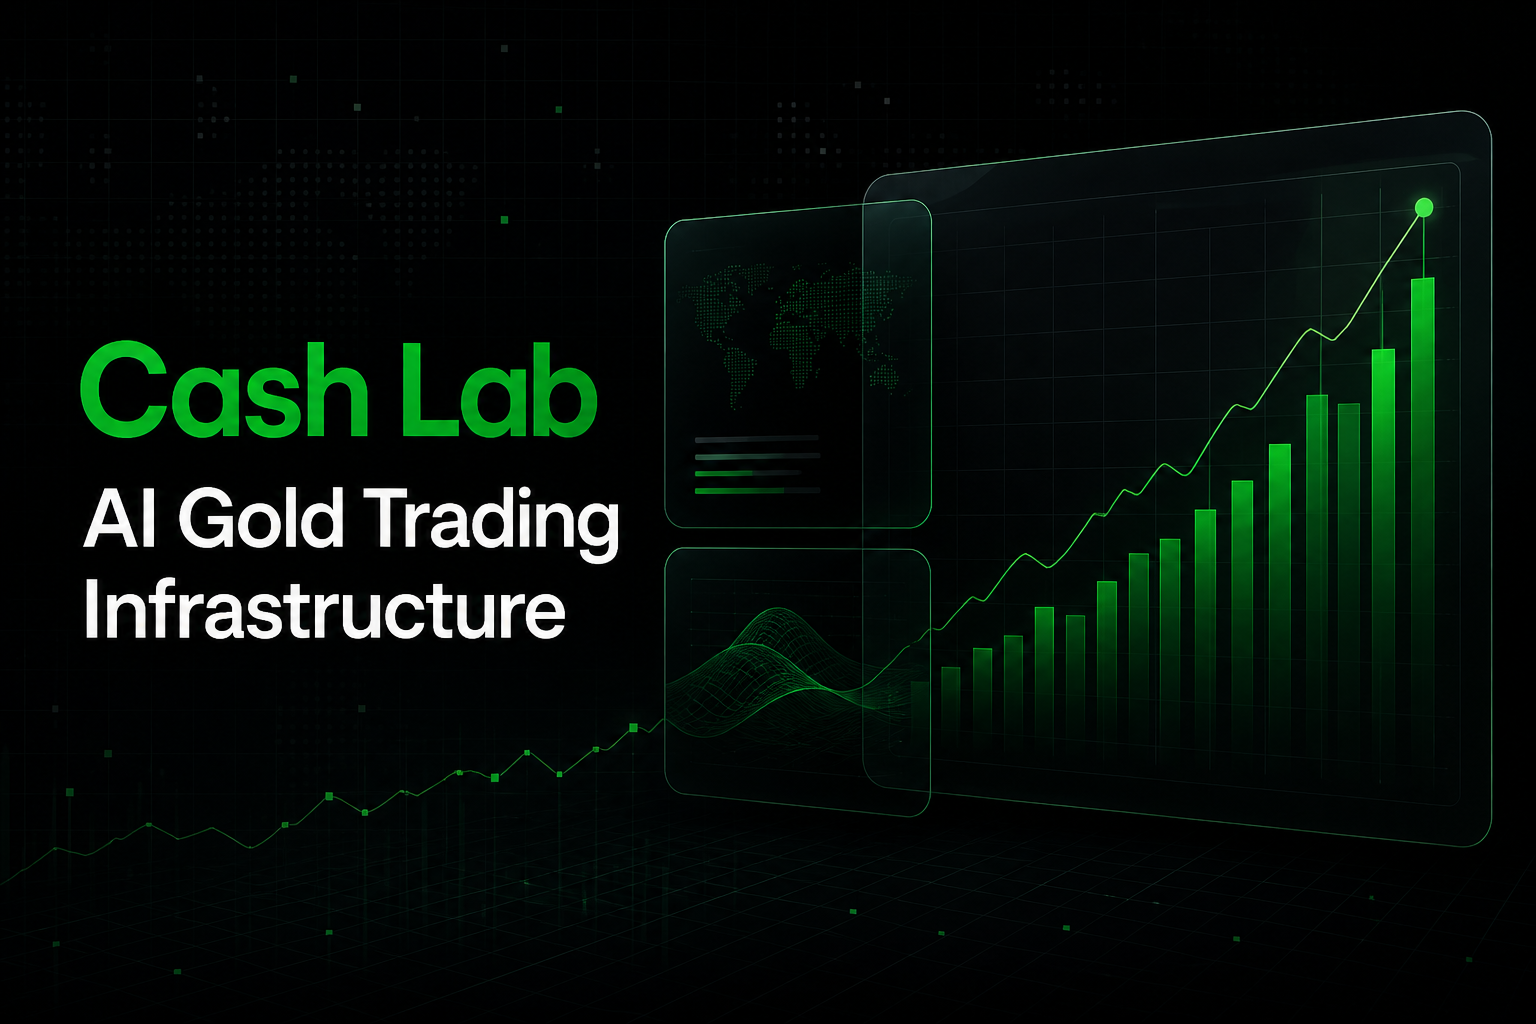
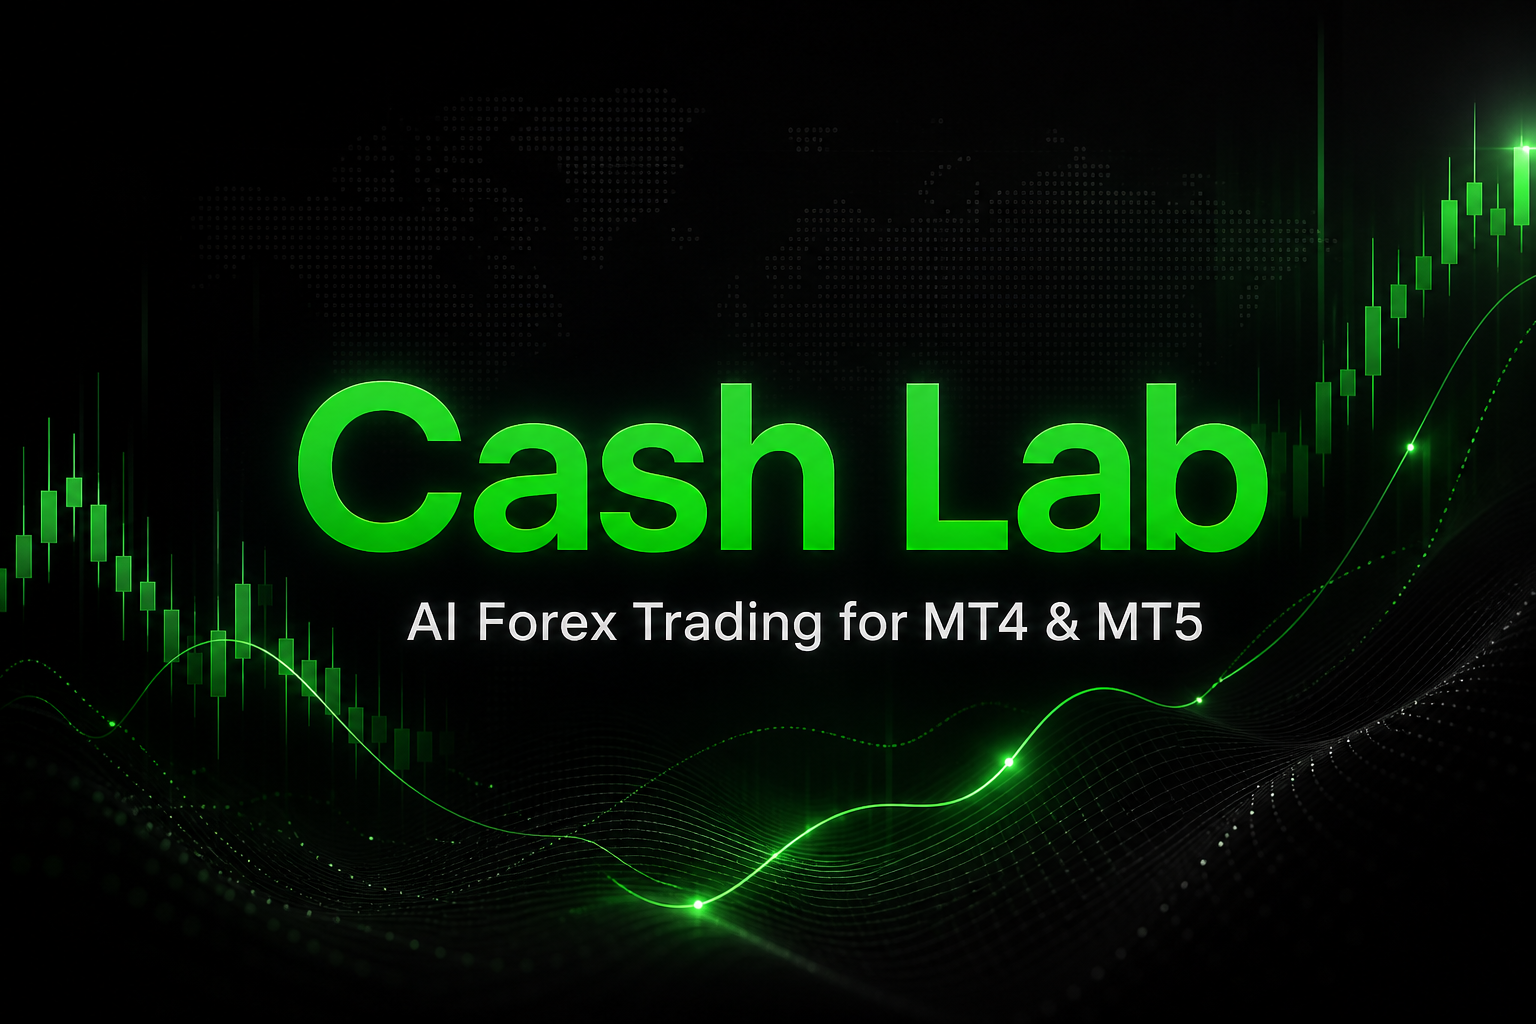
Update Cash Lab to forex and 70/30 split

diff --git a/components/LandingPage.tsx b/components/LandingPage.tsx
@@ -50,13 +50,13 @@ export function LandingPage() {
         <div className="hero-glow" aria-hidden="true" />
         <div className="container hero-inner">
           <div className="eyebrow">
-            <span /> AI-Powered Gold Trading Infrastructure
+            <span /> AI-Powered Forex Trading Infrastructure
           </div>
           <h1>
-            AI Gold Scalping Trading Platform for <em>MT4 and MT5</em>
+            AI Forex Trading Platform for <em>MT4 and MT5</em>
           </h1>
           <p className="hero-copy">
-            Deploy AI-powered gold trading in minutes. The system analyzes
+            Deploy AI-powered forex trading in minutes. The system analyzes
             real-time market conditions and executes trades on MT4 and MT5 with
             built-in risk protection.
           </p>
@@ -84,7 +84,7 @@ export function LandingPage() {
             </div>
             <div className="market-card market-card-main">
               <div className="market-card-top">
-                <span>Cash Lab AI Gold Scalping Bot</span>
+                <span>Cash Lab AI Forex Trading Bot</span>
                 <span className="live-dot">● INTERFACE PREVIEW</span>
               </div>
               <div className="market-stats">
@@ -261,14 +261,14 @@ export function LandingPage() {
               <div>
                 <strong>How is realized profit shared?</strong>
                 <p>
-                  Customers retain 60% of commissionable realized profit, while
-                  Cash Lab receives 40% as its performance commission.
+                  Customers retain 70% of commissionable realized profit, while
+                  Cash Lab receives 30% as its performance commission.
                 </p>
               </div>
             </div>
             <div className="agent-split">
-              <span>Customer share · 60%</span>
-              <span>Cash Lab share · 40%</span>
+              <span>Customer share · 70%</span>
+              <span>Cash Lab share · 30%</span>
             </div>
             <div className="agent-input">
               Ask Trading Agent anything… <b>↗</b>
@@ -360,23 +360,23 @@ export function LandingPage() {
             eyebrow="Commission model"
             title={
               <>
-                A Transparent <span>60/40 Profit Split</span>
+                A Transparent <span>70/30 Profit Split</span>
               </>
             }
-            copy="Customers keep 60% of commissionable realized profit. Cash Lab receives 40% as its performance commission."
+            copy="Customers keep 70% of commissionable realized profit. Cash Lab receives 30% as its performance commission."
           />
           <div className="commission-panel">
             <div
               className="commission-bar"
               role="img"
-              aria-label="Profit split: 60 percent customer and 40 percent Cash Lab"
+              aria-label="Profit split: 70 percent customer and 30 percent Cash Lab"
             >
               <div className="customer-share">
-                <strong>60%</strong>
+                <strong>70%</strong>
                 <span>Customer</span>
               </div>
               <div className="cashlab-share">
-                <strong>40%</strong>
+                <strong>30%</strong>
                 <span>Cash Lab</span>
               </div>
             </div>
@@ -386,7 +386,7 @@ export function LandingPage() {
                   <Users size={22} />
                 </div>
                 <div>
-                  <h3>60% Customer Share</h3>
+                  <h3>70% Customer Share</h3>
                   <p>
                     The customer receives the majority share of commissionable
                     realized trading profit.
@@ -398,9 +398,9 @@ export function LandingPage() {
                   <BriefcaseBusiness size={22} />
                 </div>
                 <div>
-                  <h3>40% Cash Lab Commission</h3>
+                  <h3>30% Cash Lab Commission</h3>
                   <p>
-                    Cash Lab receives 40% of commissionable realized profit as
+                    Cash Lab receives 30% of commissionable realized profit as
                     its performance commission.
                   </p>
                 </div>
@@ -468,7 +468,7 @@ export function LandingPage() {
             Start Your AI Trading System <span>Today</span>
           </h2>
           <p>
-            Deploy automated gold trading with intelligent AI risk protection
+            Deploy automated forex trading with intelligent AI risk protection
             and real-time trading insights.
           </p>
           <div>

diff --git a/app/layout.tsx b/app/layout.tsx
@@ -11,11 +11,11 @@ const metadataBase = new URL(
 export const metadata: Metadata = {
   metadataBase,
   title: {
-    default: "Cash Lab — AI Gold Trading for MT4 & MT5",
+    default: "Cash Lab — AI Forex Trading for MT4 & MT5",
     template: "%s | Cash Lab",
   },
   description:
-    "AI-powered gold trading infrastructure with real-time market intelligence and risk protection.",
+    "AI-powered forex trading infrastructure with real-time market intelligence and risk protection.",
   icons: {
     icon: "/brand/favicon-32.png",
     apple: "/brand/apple-touch-icon.png",
@@ -24,22 +24,22 @@ export const metadata: Metadata = {
   openGraph: {
     type: "website",
     siteName: "Cash Lab",
-    title: "Cash Lab — AI Gold Trading Infrastructure",
+    title: "Cash Lab — AI Forex Trading Infrastructure",
     description:
-      "AI-powered gold trading infrastructure with real-time market intelligence and risk protection.",
+      "AI-powered forex trading infrastructure with real-time market intelligence and risk protection.",
     images: [
       {
         url: "/og.png",
         width: 1536,
         height: 1024,
-        alt: "Cash Lab — AI Gold Trading Infrastructure",
+        alt: "Cash Lab — AI Forex Trading Infrastructure",
       },
     ],
   },
   twitter: {
     card: "summary_large_image",
-    title: "Cash Lab — AI Gold Trading Infrastructure",
-    description: "AI-powered gold trading infrastructure for MT4 and MT5.",
+    title: "Cash Lab — AI Forex Trading Infrastructure",
+    description: "AI-powered forex trading infrastructure for MT4 and MT5.",
     images: ["/og.png"],
   },
 };

diff --git a/lib/content.ts b/lib/content.ts
@@ -102,7 +102,7 @@ export const faqs = [
   ],
   [
     "How much can I earn per month?",
-    "Trading returns are variable and cannot be guaranteed. Results depend on market conditions, account size, broker execution, and risk settings. When commissionable realized profit is generated, the customer receives 60% and Cash Lab receives 40% as its performance commission.",
+    "Trading returns are variable and cannot be guaranteed. Results depend on market conditions, account size, broker execution, and risk settings. When commissionable realized profit is generated, the customer receives 70% and Cash Lab receives 30% as its performance commission.",
   ],
   [
     "Do I need trading experience?",
@@ -117,7 +117,7 @@ export const faqs = [
     "The reference website states that its results reflect real trading performance. Cash Lab must independently verify any performance examples before publication. Past performance does not guarantee future results.",
   ],
   [
-    "How does the 60/40 commission split work?",
-    "The customer keeps 60% of commissionable realized trading profit. Cash Lab receives the remaining 40% as its performance commission. The final customer agreement defines calculation periods, settlement timing, eligible profit, and any exclusions.",
+    "How does the 70/30 commission split work?",
+    "The customer keeps 70% of commissionable realized trading profit. Cash Lab receives the remaining 30% as its performance commission. The final customer agreement defines calculation periods, settlement timing, eligible profit, and any exclusions.",
   ],
 ] as const;

diff --git a/components/AuditedArticle.tsx b/components/AuditedArticle.tsx
@@ -8,7 +8,25 @@ type Heading = { tag: string; text: string };
 function rebrand(value: string) {
   return value
     .replaceAll("MevTrading", "Cash Lab")
-    .replaceAll("MEV Trading", "Cash Lab");
+    .replaceAll("MEV Trading", "Cash Lab")
+    .replaceAll("Forex AI Gold Scalper Trading Bot", "AI Forex Trading Bot")
+    .replaceAll(
+      "AI Gold Scalping Trading Platform",
+      "AI Forex Trading Platform",
+    )
+    .replaceAll("AI Gold Scalping Platform", "AI Forex Trading Platform")
+    .replaceAll("AI Gold Scalping Bot", "AI Forex Trading Bot")
+    .replaceAll("AI Gold Scalper", "AI Forex Trading Bot")
+    .replaceAll("Gold (XAUUSD)", "major forex pairs")
+    .replaceAll("Gold/US Dollar", "forex")
+    .replaceAll("XAUUSD", "major currency pairs")
+    .replaceAll("Gold, Forex, and Cryptocurrency markets", "Forex markets")
+    .replaceAll("gold scalping", "forex trading")
+    .replaceAll("Gold trading", "Forex trading")
+    .replaceAll("gold trading", "forex trading")
+    .replaceAll("AI Gold", "AI Forex")
+    .replaceAll("Gold", "Forex")
+    .replaceAll("gold", "forex");
 }
 
 function slugify(value: string) {

diff --git a/lib/site-config.ts b/lib/site-config.ts
@@ -3,7 +3,7 @@ export type TodoValue = `TODO: ${string}`;
 export const siteConfig = {
   name: "Cash Lab",
   shortDescription:
-    "AI Gold Scalping Platform for MT4 & MT5. Automated trading with intelligent risk protection.",
+    "AI Forex Trading Platform for MT4 & MT5. Automated currency trading with intelligent risk protection.",
   canonicalBaseUrl: process.env.NEXT_PUBLIC_SITE_URL ?? null,
   brand: {
     primaryGreen: "#26C626",
@@ -30,7 +30,7 @@ export const publicationClaimsToVerify = [
   "Current trader or customer counts",
   "Displayed account balances, profit figures, and performance percentages",
   "The availability and terms of Cash Lab Wallet",
-  "The calculation, settlement timing, and exclusions for the 60/40 realized-profit commission split",
+  "The calculation, settlement timing, and exclusions for the 70/30 realized-profit commission split",
   "24/7 automated trading and support availability",
   "AI analysis frequency, protection behavior, and market-score methodology",
   "MT4/MT5, broker, prop-firm, payment, and withdrawal compatibility",

diff --git a/components/AuthExperience.tsx b/components/AuthExperience.tsx
@@ -177,9 +177,9 @@ export function AuthExperience({
         <div className="auth-visual-grid" />
         <div className="auth-visual-inner">
           <span className="section-eyebrow">AI trading infrastructure</span>
-          <h2>AI Gold Scalping Platform for MT4 and MT5</h2>
+          <h2>AI Forex Trading Platform for MT4 and MT5</h2>
           <p>
-            Deploy AI-powered gold scalping in minutes with built-in risk
+            Deploy AI-powered forex trading in minutes with built-in risk
             protection.
           </p>
           <div className="auth-feature">

diff --git a/app/about/page.tsx b/app/about/page.tsx
@@ -12,7 +12,7 @@ export default function AboutPage() {
   return (
     <AuditedArticle
       title="About Cash Lab"
-      intro="The Forex AI Gold Scalper Trading Bot built for real profits. Let our AI engine analyze the market, execute trades, and manage risk automatically on your MT4/MT5 account."
+      intro="The AI forex trading platform built for automated execution. Let our AI engine analyze currency markets, execute trades, and manage risk automatically on your MT4/MT5 account."
       text={page.text}
       headings={page.headings}
     />

diff --git a/app/user-guide/page.tsx b/app/user-guide/page.tsx
@@ -5,7 +5,7 @@ import { pageMetadata } from "@/lib/metadata";
 const page = audit.pages.find((item) => item.url.endsWith("/user-guide"))!;
 export const metadata = pageMetadata(
   "User Guide",
-  "Set up and understand the reference-derived Cash Lab AI gold trading interface.",
+  "Set up and understand the reference-derived Cash Lab AI forex trading interface.",
 );
 export default function UserGuidePage() {
   return (

diff --git a/app/manifest.ts b/app/manifest.ts
@@ -4,7 +4,7 @@ export default function manifest(): MetadataRoute.Manifest {
   return {
     name: "Cash Lab",
     short_name: "Cash Lab",
-    description: "AI gold trading infrastructure for MT4 and MT5.",
+    description: "AI forex trading infrastructure for MT4 and MT5.",
     start_url: "/",
     display: "standalone",
     background_color: "#050706",

diff --git a/app/globals.css b/app/globals.css
@@ -983,7 +983,7 @@ body {
 }
 .commission-bar {
   display: grid;
-  grid-template-columns: 3fr 2fr;
+  grid-template-columns: 7fr 3fr;
   min-height: 190px;
 }
 .commission-bar > div {

diff --git a/REFERENCE_AUDIT.md b/REFERENCE_AUDIT.md
@@ -8,7 +8,7 @@ This inventory records the public reference experience before implementation. Th
 
 | Reference route      | Cash Lab route       | Main content and behavior                                                                                                                                                                                                                                                   | Status                                                                                                               |
 | -------------------- | -------------------- | --------------------------------------------------------------------------------------------------------------------------------------------------------------------------------------------------------------------------------------------------------------------------- | -------------------------------------------------------------------------------------------------------------------- |
-| `/`                  | `/`                  | Sticky header; anchors for Features, Pricing, Affiliate, FAQ; hero; performance-card marquee; three setup steps; four feature cards; AI agent mockup; market-score engine; monthly/yearly pricing; comparison table; affiliate steps; ten-item accordion; final CTA; footer | Implemented with pricing intentionally removed and the affiliate offer replaced by Cash Lab's 60/40 commission model |
+| `/`                  | `/`                  | Sticky header; anchors for Features, Pricing, Affiliate, FAQ; hero; performance-card marquee; three setup steps; four feature cards; AI agent mockup; market-score engine; monthly/yearly pricing; comparison table; affiliate steps; ten-item accordion; final CTA; footer | Implemented with pricing intentionally removed and the affiliate offer replaced by Cash Lab's 70/30 commission model |
 | `/about`             | `/about`             | Mission, AI-Powered / Automated / Optimized cards, risk-management features, bot-management features, platform statistics, CTA                                                                                                                                              | Implemented; claims flagged                                                                                          |
 | `/blog`              | `/blog`              | Empty blog state with “No articles yet” and return link                                                                                                                                                                                                                     | Implemented                                                                                                          |
 | `/changelog`         | `/changelog`         | Versions 6.0, 5.0, 4.5, and 4.4 with feature/improvement/security entries                                                                                                                                                                                                   | Implemented; claims flagged                                                                                          |
@@ -83,7 +83,7 @@ The complete FAQ answers and exact audited page text are retained in `reference-
 ## Cash Lab verification checklist
 
 - [x] All audited public routes exist.
-- [x] Homepage information hierarchy is preserved, with the requested removal of pricing and addition of the 60/40 commission model.
+- [x] Homepage information hierarchy is preserved, with the requested removal of pricing and addition of the 70/30 commission model.
 - [x] Navigation, mobile disclosure, commission and FAQ anchor links, FAQ accordion, and safe forms work.
 - [x] The full user-guide, changelog, legal, privacy, about, and empty-blog copy is present and rebranded.
 - [x] Reference social, broker, signup, and domain links are removed from the public site.
@@ -99,7 +99,7 @@ The complete FAQ answers and exact audited page text are retained in `reference-
 - [ ] Cash Lab must supply its support email and support destination.
 - [ ] Cash Lab must supply or approve its social-profile URLs.
 - [ ] Cash Lab must provide legal entity name, address, governing law, jurisdiction, and approved effective dates.
-- [ ] Cash Lab must define the calculation period, settlement timing, eligible profit, and exclusions for the 60/40 commission model in its customer agreement.
+- [ ] Cash Lab must define the calculation period, settlement timing, eligible profit, and exclusions for the 70/30 commission model in its customer agreement.
 - [ ] Cash Lab must verify every deposit, balance, profit-target, support, product-capability, security, compatibility, wallet, withdrawal, changelog, and performance claim before publication.
 
 ## Unavoidable or intentional differences
@@ -110,4 +110,4 @@ The complete FAQ answers and exact audited page text are retained in `reference-
 - Original social and broker links are omitted because Cash Lab destinations were not supplied.
 - Authentication is a local demonstration with honest feedback because no Cash Lab backend was supplied.
 - The duplicated responsive sections visible on the reference site were normalized into one accessible instance per section.
-- The reference pricing, plan comparison, and 20% affiliate offer are intentionally omitted from Cash Lab. Cash Lab instead presents a 60% customer / 40% company realized-profit commission split.
+- The reference pricing, plan comparison, and 20% affiliate offer are intentionally omitted from Cash Lab. Cash Lab instead presents a 70% customer / 30% company realized-profit commission split.
